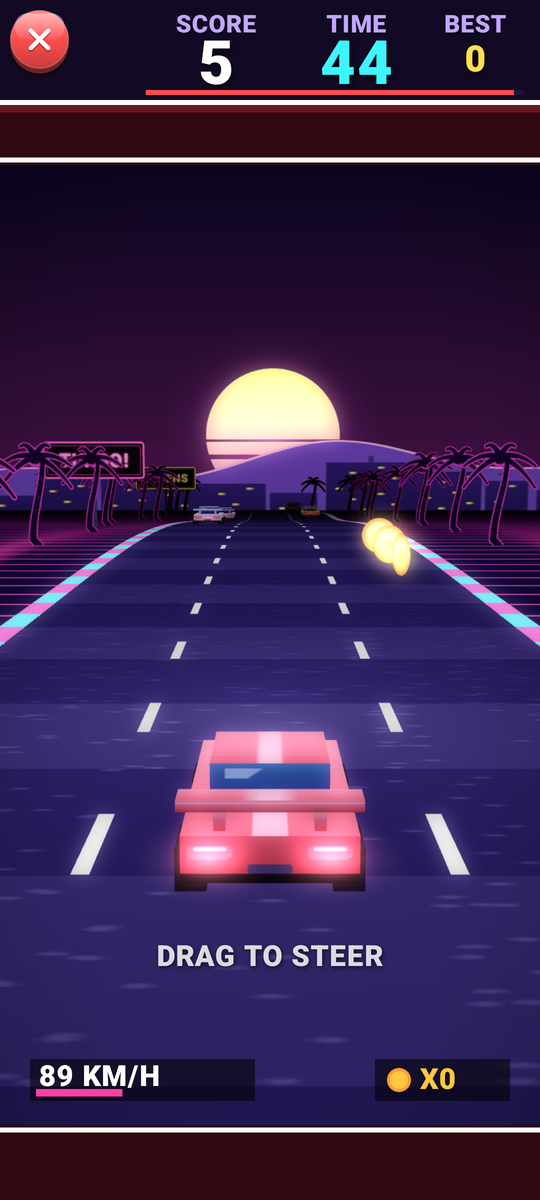
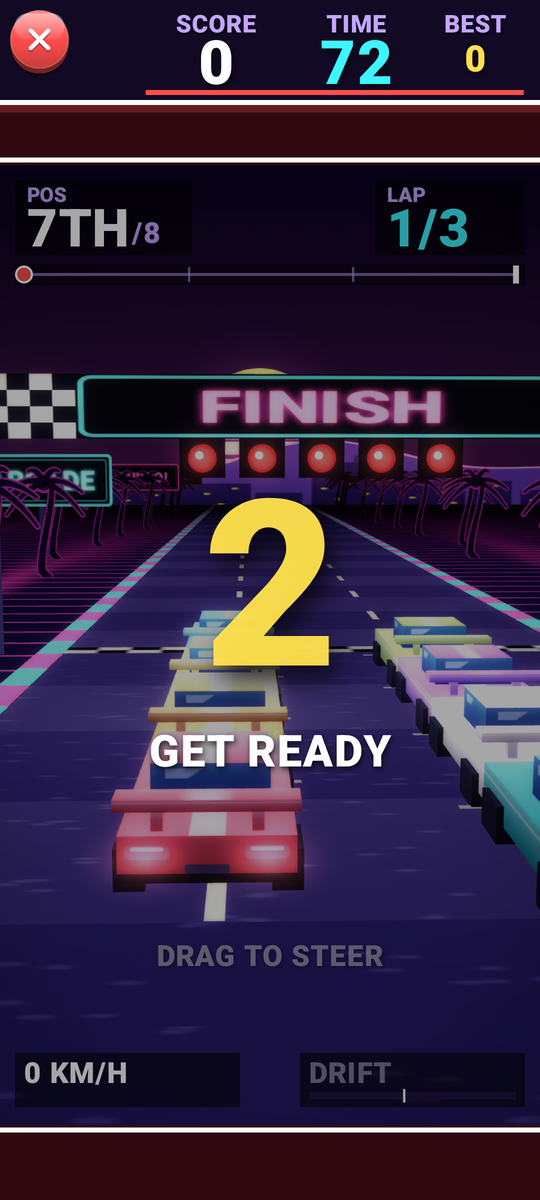
Update the README and screenshots for the expanded arcade
- Eleven machines: the new Shootout light gun, Star Flipper pinball and
  Gone Fishing, and Turbo Racer as a three-lap race against seven rivals.
- The bigger hall, its spare banks, and how a new machine gets a slot
  and, optionally, its own cabinet through CabinetDesign.
- cancelInput, the SimHarness-based per-game tests, the new ids and
  Tuning objects, the engine upgrades, and frame-time logging again.
- New screenshots of the hall, racer, shooter, pinball and fishing.

diff --git a/README.md b/README.md
@@ -1,8 +1,8 @@
 # Pocket Arcade
 
-A 3D arcade for Android that you walk around in. Stroll a blacklight-carpeted arcade floor with a floating joystick, past banks of claw machines, skee-ball alleys, linked racers and a coin-pusher island. Step up to a glowing cabinet, spend a token, and the camera dives into the machine's screen. Play a 40–60 second round, watch your tickets print out of the slot, then trade them at the prize counter for hats, outfits and decorations that show up in the hall.
+A 3D arcade for Android that you walk around in. Stroll a blacklight-carpeted arcade floor with a floating joystick, past banks of claw machines, skee-ball alleys, linked racers, light-gun cabinets, pinball tables, fishing tubs and a coin-pusher island. Step up to a glowing cabinet, spend a token, and the camera dives into the machine's screen. Play a 40–75 second round, watch your tickets print out of the slot, then trade them at the prize counter for hats, outfits and decorations that show up in the hall.
 
-Everything is made in code. The hall and every machine are rendered on the GPU with OpenGL ES 3 at full resolution: per-pixel lighting from dozens of coloured lights, 4× anti-aliasing and a bloom glow on neon and screens. Every model, texture, font glyph and sound is generated at runtime. Textures are painted with Android's 2D canvas, and sounds are synthesized through `AudioTrack`. The app ships no image or audio files and uses no third-party libraries beyond AndroidX/Compose.
+Everything is made in code. The hall and every machine are rendered on the GPU with OpenGL ES 3: per-pixel lighting from dozens of coloured lights with rim light, 4× anti-aliasing, a multi-scale bloom glow on neon and screens, and colour grading. Every model, texture, font glyph and sound is generated at runtime. Textures are painted with Android's 2D canvas, and sounds are synthesized through `AudioTrack`. The app ships no image or audio files and uses no third-party libraries beyond AndroidX/Compose.
 
 <p>
   <img src="docs/screenshots/title.png" width="160" alt="Title screen">
@@ -19,6 +19,11 @@ Everything is made in code. The hall and every machine are rendered on the GPU w
   <img src="docs/screenshots/racer.png" width="160" alt="Turbo racer">
   <img src="docs/screenshots/stacker.png" width="160" alt="Stacker">
 </p>
+<p>
+  <img src="docs/screenshots/shooter.png" width="160" alt="Shootout light-gun shooter">
+  <img src="docs/screenshots/pinball.png" width="160" alt="Star Flipper pinball">
+  <img src="docs/screenshots/fishing.png" width="160" alt="Gone Fishing">
+</p>
 
 ## Features
 
@@ -26,24 +31,28 @@ Everything is made in code. The hall and every machine are rendered on the GPU w
 - A real arcade floor plan:
   - at the back, a prize counter with a wall of plushies, flanked by banks of claw machines and stackers;
   - across the floor, skee-ball and basketball alleys, air hockey tables, a whack-a-mole row, a four-machine coin-pusher island and linked racers in the middle;
+  - further toward the doors, a row of light-gun cabinets, pinball tables along the right wall and fishing tubs on the left, with two spare banks ready for new machines;
   - around the edges, a snack bar with café tables and vending machines, and a photo booth;
   - by the doors, a token kiosk and kiddie rides.
 - Every cabinet is modelled for its game, from glass claw boxes with a working gantry to long lanes, basketball cages, racer seats and pusher shelves that sweep. Each has a live attract-mode screen, a marquee with chasing bulbs, a neon glow and its own coloured light.
 - Blacklight carpet, terrazzo at the entrance, walls rising into the dark with acoustic panels, uplights and a backlit mural, and the street outside through the cut-away shopfront.
 - 3D kids with a walk cycle, poses for playing, cheering and sitting, and hats. Yours follows a floating joystick that appears wherever your thumb lands. The other kids find their way between machines, play them and sit down at the snack bar.
 - Collision against walls, cabinets and furniture, with sliding along edges.
-- Walk up to a machine and a **▶ PLAY (1 token)** prompt pops up. Tap it and the camera flies into the cabinet's screen. Exiting flies you back out to exactly where you stood.
+- Walk up to a machine and a **▶ PLAY (1 token)** prompt pops up. Tap it and the camera flies into the screen of the cabinet you're standing at. Exiting flies you back out to exactly where you stood.
 - An ambient arcade soundscape: mains hum, crowd murmur and distant machine bleeps.
 
-**Eight machines**, each a full 3D game that pays out tickets:
+**Eleven machines**, each a full 3D game that pays out tickets:
 1. **Claw machine**: a glass box full of 3D plushies, with a gantry and a claw that swings on its cable (a real variable-length pendulum), with hinged prongs that open and close. Prizes are a physics pile. Whether a prize holds depends on the machine's grip for that grab and how centred you were, and it can slip on the way up. Now and then you get a gold **lucky claw** turn. Prizes you win go into your plush collection (11 to find, including a rare golden cat).
 2. **Skee-ball**: a player's-eye alley with a tilted target board and raised ring walls. Drag the ball to aim, then flick up. Flick speed sets how far it jumps. Rings are worth 10–100, with a 200-point bonus hole in the corner.
 3. **Whack-a-mole**: a table with real holes. Moles, golden moles and bombs rise out of them and you bonk them with a 3D mallet. It speeds up as the round goes on, and hits in a row build a combo.
 4. **Coin pusher**: tap to drop coins onto a packed deck while the shelf sweeps back and forth. Coins that spill over the lip land in the win tray. Gems, big coins, ticket bundles and coin-shower stars are mixed in, and five spills in quick succession trigger an avalanche bonus.
 5. **Hoop shot**: flick to shoot at a real 3D rim, net and backboard, with rim bounces and banks. Makes in a row multiply your points up to ×5, and the hoop starts moving in the second half.
-6. **Air hockey** (new): drag your mallet and smash the puck past the CPU on an air table with rounded corners. The CPU speeds up as you pull ahead. Goals in a row score more, and the first to 7 wins.
-7. **Turbo racer** (new): a synthwave road race into the sunset. Drag to steer through curves and over hills, dodge traffic, skim past cars for bonus points and grab tokens off the road.
-8. **Stacker** (new): tap to drop each sliding slab onto the tower. Any overhang is cut off and tumbles away. Line one up perfectly to keep it whole and build a combo. You get three misses.
+6. **Air hockey**: drag your mallet and smash the puck past the CPU on an air table with rounded corners. The CPU speeds up as you pull ahead. Goals in a row score more, and the first to 7 wins.
+7. **Turbo racer**: a three-lap synthwave race against seven rivals on a closed circuit. Start from the grid under the start lights, drag to steer through the bends and over the hills, and hold a second finger to drift through corners and charge a turbo. Rivals take racing lines, overtake and bump. A live position and lap counter tracks the race, and you're paid for your finishing place, clean passes and time left.
+8. **Stacker**: tap to drop each sliding slab onto the tower. Any overhang is cut off and tumbles away. Line one up perfectly to keep it whole and build a combo. You get three misses.
+9. **Shootout** (new): a light-gun cabinet with two mounted pistols. Tap to shoot exactly where you tap. Targets pop out of cover and fly in: red-ringed gunmen fire back, gold drones are rare and pay big, and hands-up civilians must not be shot. Six shots, then tap the reload bar. Hits in a row build a combo, accuracy pays a bonus, and the round ends with a boss.
+10. **Star Flipper** (new): a pinball table seen down the glass. Hold the left or right half of the screen to flip, pull the plunger down and let go to launch, and nudge with a swipe up (don't tilt). Pop bumpers, slingshots, drop targets for a multiplier and three top lanes that light multiball.
+11. **Gone Fishing** (new): a round pond tub. Hold on the pond to charge a cast and let go at the right power, strike when the bobber dives, then draw circles on the reel to wind the fish in. Ease off when it pulls, or the line snaps. Bigger and rarer fish, up to a golden one, are worth more.
 
 **Game feel**
 - Screen shake, particles, squash and stretch, popping score text and a 3-2-1-GO countdown.
@@ -66,13 +75,17 @@ Everything is made in code. The hall and every machine are rendered on the GPU w
 - **Geometry.** Static models live on the GPU as vertex buffers and draw as instances. Polygons are sorted into opaque, alpha-blended and additive passes, so glass, glows, neon and sparks all work.
 - **Lighting.**
   - Per-pixel: ambient, one directional light and up to 64 coloured point lights. A light grid across the floor keeps the many lights cheap.
-  - Glossy highlights, darkening fog and filmic tone mapping.
+  - Glossy highlights with per-material sharpness, rim light that lifts cabinets and kids off the dark floor, darkening fog and filmic tone mapping.
+  - Normals are transformed with the inverse-transpose, so squashed and stretched models light correctly.
 - **Models.** They are built from boxes, cylinders, lathes, spheres, capsules and tori, and move as jointed parts: the claw's prongs, the mallet's swing, the kids' limbs.
 - **Image quality.**
-  - Scenes render with 4× multisampling, alpha-to-coverage for cut-outs, a bloom glow and a vignette.
+  - Scenes render with 4× multisampling, alpha-to-coverage for cut-outs, a multi-scale bloom glow, colour grading with dither, and a vignette.
+  - Textures use premultiplied alpha, so cut-outs and glows have no dark fringes.
+  - The multisampled buffers are discarded after the resolve, which saves memory bandwidth on tile-based phone GPUs.
   - The render resolution eases down if frames run long.
-- **Textures.** They are painted with Android's `Canvas` (gradients, real fonts, glows and grain). A texture can be stored at a finer resolution than the texel size the code maps it in.
+- **Textures.** They are painted with Android's `Canvas` (gradients, real fonts, glows and grain). A texture can be stored at a finer resolution than the texel size the code maps it in. Live textures such as cabinet screens reuse their upload buffers instead of allocating a copy every frame.
 - **Stage3D.** Gives each game a 3D view that maps touches onto world planes and world points back to the screen.
+- **GL context loss.** GPU resources are tagged with a process-wide generation, so models and textures cached for the whole app are re-uploaded after the activity is recreated.
 
 ## Install the APK on your phone
 
@@ -100,9 +113,9 @@ To jump straight into a machine (it still costs a token), pass its id:
 adb shell am start -n com.pocketarcade/.MainActivity --es play racer
 ```
 
-The ids are `claw`, `whack`, `skeeball`, `hoops`, `pusher`, `airhockey`, `racer` and `stacker`. To log frame times, run `adb shell setprop log.tag.PocketArcade3D DEBUG` and restart the app.
+The ids are `claw`, `whack`, `skeeball`, `hoops`, `pusher`, `airhockey`, `racer`, `stacker`, `shooter`, `pinball` and `fishing`. To log frame times once a second, run `adb shell setprop log.tag.PocketArcade3D DEBUG` and restart the app. Each line shows the UI-thread record time, the GL draw time, the swap interval, GPU time where the driver supports timer queries, and the render scale. To compare builds like for like, also run `adb shell setprop log.tag.PocketArcade3DPin DEBUG`, which holds the render scale at 0.8.
 
-The headless payout simulation plays every machine with bots of different skill and prints average tickets per round:
+The unit tests play every machine headlessly with seeded bots of different skill, check that every round finishes and pays out within the target bands, and print average tickets per round. They also check the hall floor plan (no overlaps, every cabinet reachable on the same walk grid the kids use):
 
 ```bash
 ./gradlew testDebugUnitTest
@@ -110,7 +123,7 @@ The headless payout simulation plays every machine with bots of different skill 
 
 ## Add a new machine
 
-Write one class and register it in one place. The hall gives it a cabinet, a play mat, a prompt, a high-score table and an attract screen automatically, and grows a new row when it needs room.
+Write one class and register it in one place. The hall gives it a cabinet, a play mat, a prompt, a high-score table and an attract screen automatically, and puts it in one of the spare banks near the doors. If every bank is taken, the floor plan fails loudly instead of overlapping anything: add a `Slot` to `HubLayout.slots`.
 
 1. Create `app/src/main/java/com/pocketarcade/games/<name>/<Name>Game.kt` and extend `BaseMiniGame`, which implements the `MiniGame` interface and provides particles, screen shake, popups, a score and a round clock. Draw with a `Stage3D`, or straight onto the Compose `DrawScope` for a flat game:
 
@@ -137,6 +150,7 @@ class BowlingGame : BaseMiniGame() {
     override fun onTouch(type: TouchType, id: Long, x: Float, y: Float, timeMs: Long) {
         // x, y are field units (360 x 640); stage.touchToPlane(x, y, 0f, out) finds the spot in the world
     }
+    override fun cancelInput() { /* the host stopped forwarding touches (pause): forget every tracked pointer */ }
     override fun ticketsFor(score: Int) = 1 + score / 20
     override fun drawAttract(p: Painter, w: Int, h: Int, time: Float) { /* tiny cabinet screen */ }
 }
@@ -148,11 +162,16 @@ class BowlingGame : BaseMiniGame() {
 fun createAll(): List<MiniGame> = listOf(
     ClawMachineGame(), WhackAMoleGame(), SkeeBallGame(), HoopsGame(),
     CoinPusherGame(), AirHockeyGame(), RacerGame(), StackerGame(),
+    ShooterGame(), PinballGame(), FishingGame(),
     BowlingGame(),
 )
 ```
 
-That's all. The host takes care of the intro card, countdown, timer, pause/quit, results, ticket printing, token spending and saving. Override `isSettled()` if your round has things still in motion after the clock runs out, and set `endedEarly = true` to finish a round before the clock does.
+That's all. The host takes care of the intro card, countdown, timer, pause/quit, results, ticket printing, token spending and saving. Override `isSettled()` if your round has things still in motion after the clock runs out, and set `endedEarly = true` to finish a round before the clock does. `cancelInput()` is called whenever the host stops forwarding touches (pause, Back, the app going to the background, the round ending), so a finger lifted meanwhile can't leave a control stuck.
+
+To give the machine its own hall cabinet instead of a generic one, point `override val cabinet` at an object implementing `CabinetDesign` (`hub/CabinetDesign.kt`) in the game's package. It declares the footprint, the camera dive point and the attract screen size, and builds the model from shared pieces (side panels, a marquee with chase bulbs, an LED display, glass, posts, lights and a live screen). `RacerCabinet`, `ShooterCabinet`, `PinballCabinet` and `FishingCabinet` are examples.
+
+Each game gets a headless test in `app/src/test/java/com/pocketarcade/games/<name>/` built on `SimHarness`, which plays rounds exactly like the host (including the 1.2 s ending) and checks the payout bands.
 
 ## Project layout
 
@@ -164,13 +183,15 @@ app/src/main/java/com/pocketarcade/
 │   │                      particles, shake/springs, haptics, the game's type and icons
 │   ├── r3d/               scene recorder, camera, lighting, models, painted textures, Stage3D
 │   └── gl/                OpenGL ES 3 thread, renderer, shaders and the render surface
-├── hub/                   hall floor plan, scene, cabinets, fixtures, 3D kids, camera, joystick
+├── hub/                   hall floor plan and banks, scene, cabinets and the CabinetDesign seam,
+│                          fixtures, 3D kids, camera, joystick
 ├── games/                 MiniGame interface, BaseMiniGame, GameRegistry
 │   ├── claw/  skeeball/  whackamole/  coinpusher/  hoops/
-│   └── airhockey/  racer/  stacker/
+│   ├── airhockey/  racer/  stacker/
+│   └── shooter/  pinball/  fishing/
 ├── data/                  DataStore repository, save state, prize catalog
 └── ui/                    HUD, title, prize counter, token machine, profile, game host, widgets,
                            and the thumbnail studio
 ```
 
-Tuning knobs for every game (difficulty and payouts) are grouped at the top of each game file in a `*Tuning` object: `ClawTuning`, `SkeeTuning`, `WhackTuning`, `PusherTuning`, `HoopsTuning`, `HockeyTuning`, `RacerTuning` and `StackerTuning`.
+Tuning knobs for every game (difficulty and payouts) are grouped at the top of each game file in a `*Tuning` object: `ClawTuning`, `SkeeTuning`, `WhackTuning`, `PusherTuning`, `HoopsTuning`, `HockeyTuning`, `RacerTuning`, `StackerTuning`, `ShooterTuning`, `PinballTuning` and `FishingTuning`.
